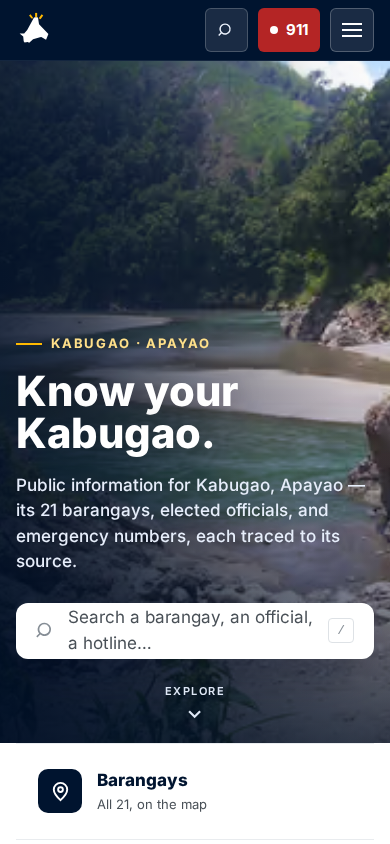
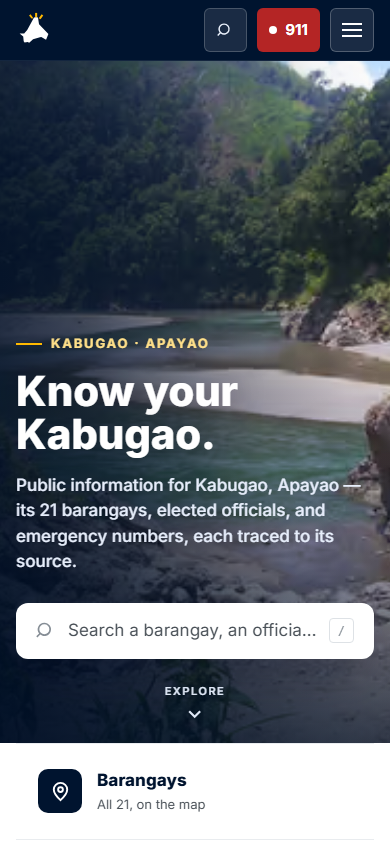
fix(checkpoint-1): restore 320px overflow correction on top of hero-search fix
Remove min-width:320px from the body rule, add a contract test forbidding it, and add the 305x568 QA size. Zero horizontal overflow at 305x568 and 320x568; hero search stays one line.

diff --git a/src/styles.css b/src/styles.css
@@ -71,7 +71,7 @@
 
 * { box-sizing: border-box; }
 html { scroll-behavior: smooth; }
-body { margin: 0; min-width: 320px; background: var(--color-white); }
+body { margin: 0; background: var(--color-white); }
 a { color: inherit; }
 h1, h2, h3, h4, p, ul, ol, dl, dd, figure { margin: 0; }
 ul { padding: 0; list-style: none; }
